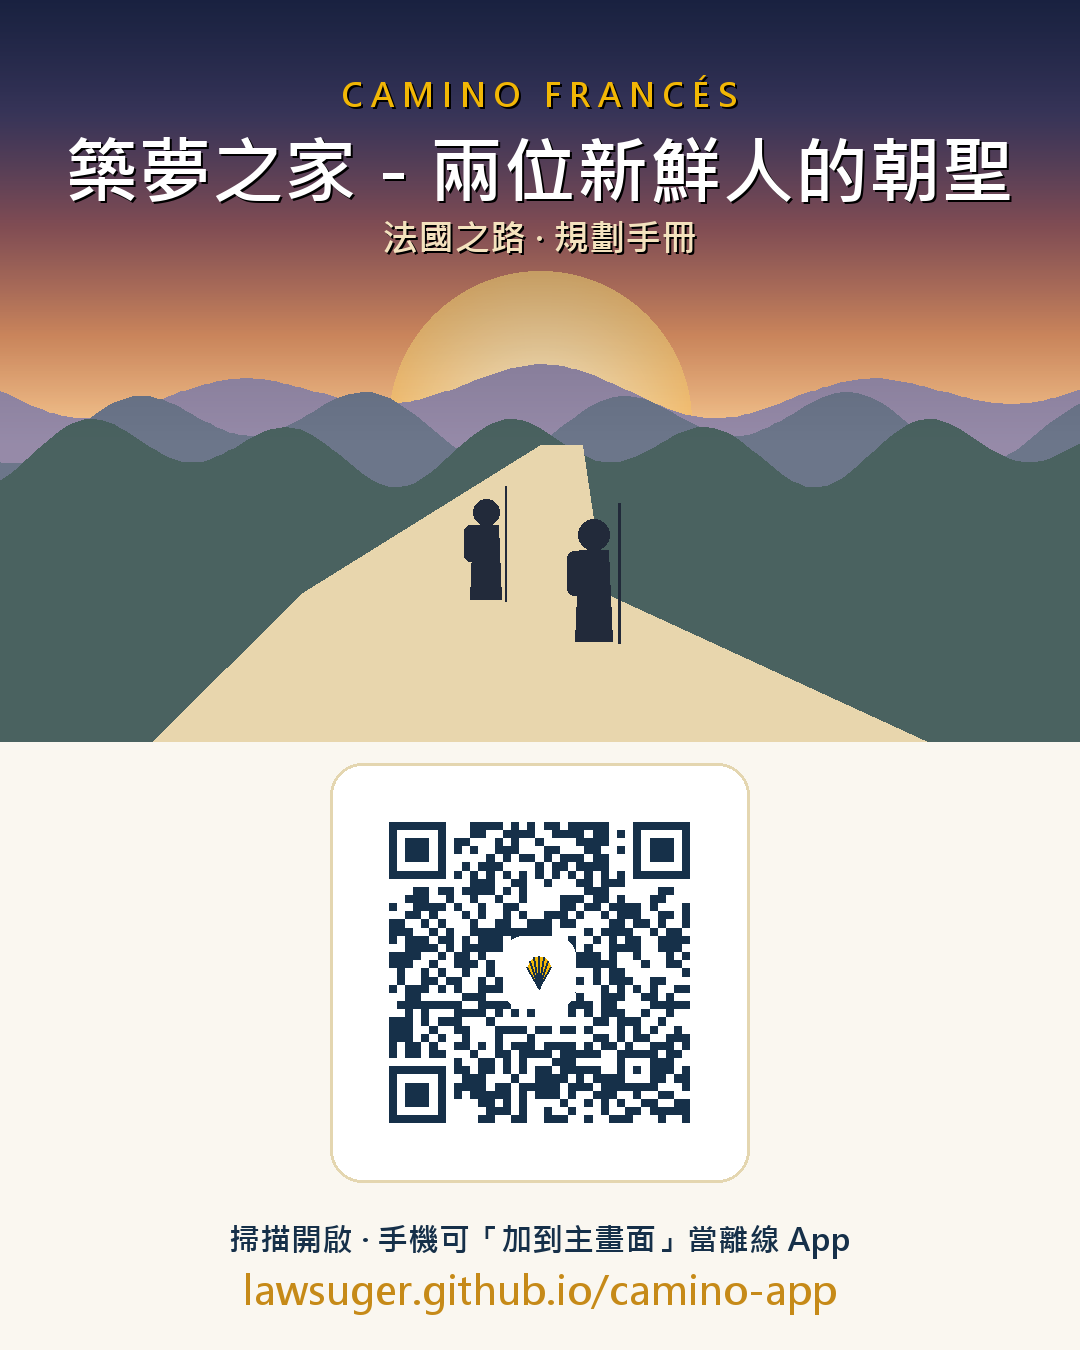
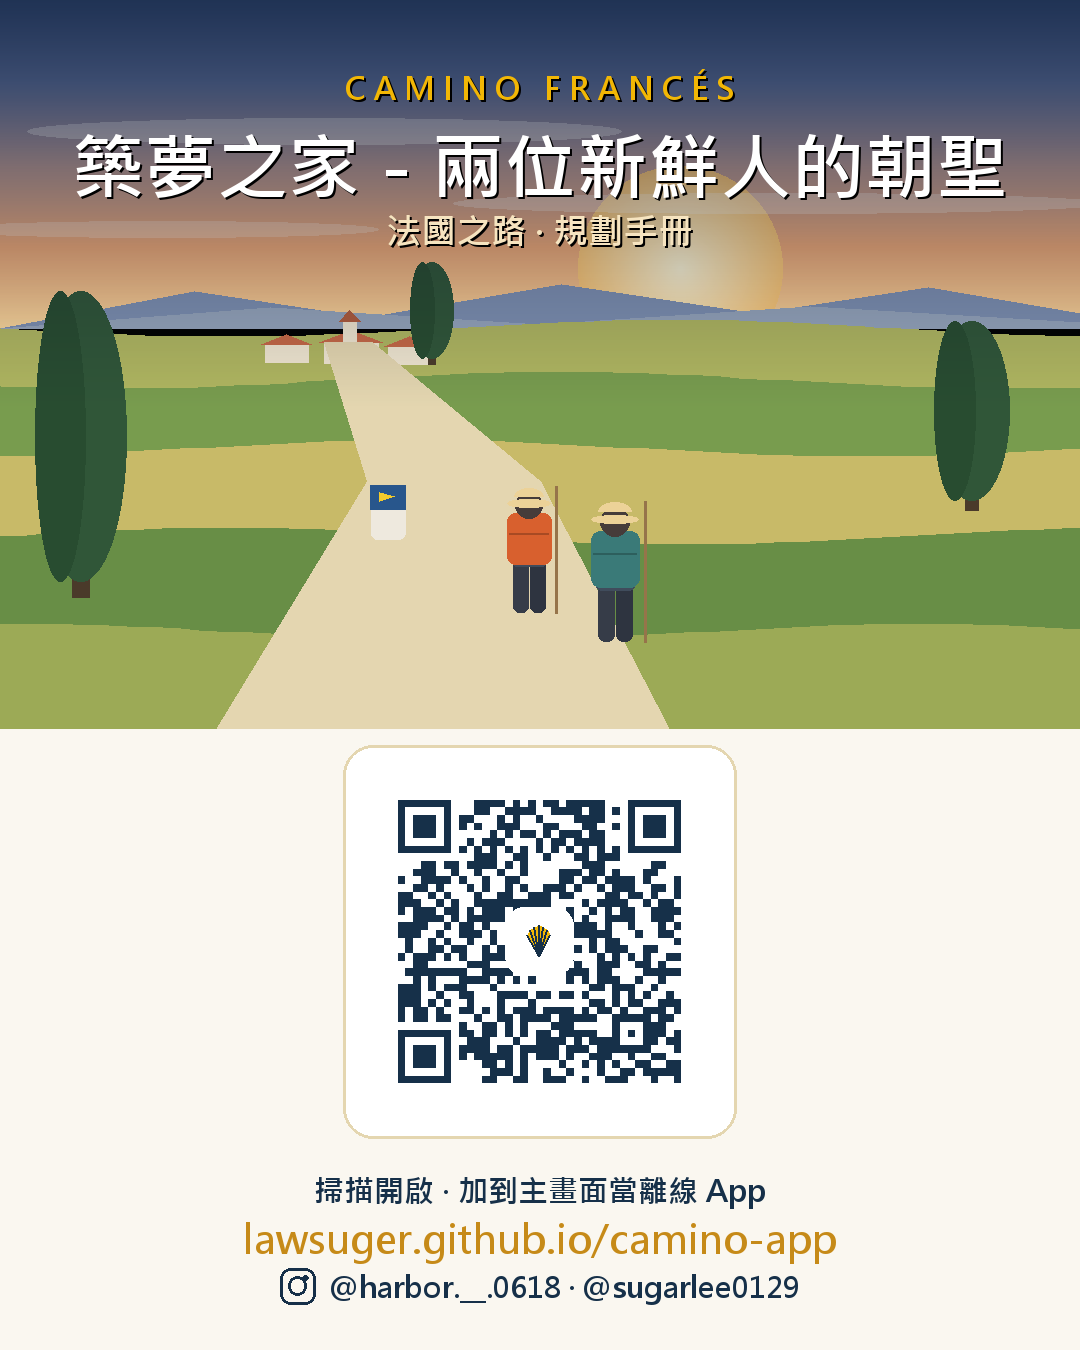
分享卡升級為旅行海報插畫風＋加上 IG 帳號＋方形版
- 日出/梯田/絲柏/小村教堂/黃箭頭路標/兩位背包朝聖者
- 直式與方形各一（qr-card-photo / qr-card-photo-square）
- 卡片底部加 IG：@harbor.__.0618 · @sugarlee0129
- 四款卡皆 ECC-H、zxing 解碼驗證可掃

diff --git a/make-qr.py b/make-qr.py
@@ -3,9 +3,9 @@
 # dependencies = ["qrcode[pil]>=7.4", "pillow>=10"]
 # ///
 """產生朝聖之路 App 的 QR Code 與分享卡。
-輸出：qr-plain.png / qr-logo.png / qr.svg
-      qr-card.png（直式 1080x1350）/ qr-card-square.png（方形 1080x1080）
-      qr-card-photo.png（風景封面 1080x1350，程式繪製日出朝聖景）
+輸出：qr-plain / qr-logo / qr.svg
+      qr-card（直式）/ qr-card-square（方形）          ← 乾淨版
+      qr-card-photo（直式）/ qr-card-photo-square（方形）← 旅行海報插畫版
 用法：uv run make-qr.py"""
 import os
 import math
@@ -20,8 +20,8 @@ KICKER = "C A M I N O   F R A N C É S"
 SUBTITLE = "法國之路 · 規劃手冊"
 FEATURES = "裝備 · 路線 · 庇護所 · 打卡座標 · 儀式 · 美食"
 URL_TEXT = "lawsuger.github.io/camino-app"
-CAP = "掃描開啟 · 手機可「加到主畫面」當離線 App"
-BLESS = "Buen Camino！一路平安"
+CAP = "掃描開啟 · 加到主畫面當離線 App"
+IG_TEXT = "@harbor.__.0618 · @sugarlee0129"
 
 OUT = os.path.join(os.path.dirname(os.path.abspath(__file__)), "qr")
 os.makedirs(OUT, exist_ok=True)
@@ -36,17 +36,17 @@ FR = r"C:\Windows\Fonts\msjh.ttc"
 _M = ImageDraw.Draw(Image.new("RGB", (4, 4)))
 
 
-def f(path, size):
-    return ImageFont.truetype(path, size)
+def f(p, s):
+    return ImageFont.truetype(p, s)
 
 
-def fit(text, path, maxw, start, mn=34):
+def fit(text, p, maxw, start, mn=34):
     s = start
     while s > mn:
-        if _M.textlength(text, font=f(path, s)) <= maxw:
-            return f(path, s)
+        if _M.textlength(text, font=f(p, s)) <= maxw:
+            return f(p, s)
         s -= 2
-    return f(path, mn)
+    return f(p, mn)
 
 
 def lerp(a, b, t):
@@ -69,12 +69,23 @@ def scallop(size):
     return im
 
 
+def ig_glyph(d, cx, cy, s, color):
+    r = s / 2
+    w = max(2, int(s * 0.1))
+    d.rounded_rectangle([cx - r, cy - r, cx + r, cy + r], radius=s * 0.30,
+                        outline=color, width=w)
+    cr = s * 0.27
+    d.ellipse([cx - cr, cy - cr, cx + cr, cy + cr], outline=color, width=w)
+    dr = s * 0.075
+    dx, dy = cx + r * 0.46, cy - r * 0.46
+    d.ellipse([dx - dr, dy - dr, dx + dr, dy + dr], fill=color)
+
+
 # ---------- 基礎 QR ----------
 qr = qrcode.QRCode(error_correction=ERROR_CORRECT_H, box_size=20, border=4)
 qr.add_data(URL); qr.make(fit=True)
 plain = qr.make_image(fill_color=NAVY, back_color="white").convert("RGB")
 plain.save(os.path.join(OUT, "qr-plain.png"))
-
 qs2 = qrcode.QRCode(error_correction=ERROR_CORRECT_H, box_size=20, border=4)
 qs2.add_data(URL); qs2.make(fit=True)
 qs2.make_image(image_factory=SvgPathImage).save(os.path.join(OUT, "qr.svg"))
@@ -98,44 +109,48 @@ qr_logo(1000).save(os.path.join(OUT, "qr-logo.png"))
 def framed_qr(card, size, cx, top):
     fx = int(cx - size / 2)
     d = ImageDraw.Draw(card)
-    d.rounded_rectangle([fx - 26, top - 26, fx + size + 26, top + size + 26],
-                        radius=32, fill=WHITE, outline=FRAME, width=3)
+    d.rounded_rectangle([fx - 24, top - 24, fx + size + 24, top + size + 24],
+                        radius=30, fill=WHITE, outline=FRAME, width=3)
     card.paste(qr_logo(size), (fx, top))
-    return top + size + 26
+    return top + size + 24
 
 
-# ---------- 乾淨版分享卡（直式 / 方形共用）----------
+def footer(card, W, H, y):
+    d = ImageDraw.Draw(card)
+    d.text((W / 2, y), CAP, font=f(FB, int(H * 0.0225)), fill=NAVY, anchor="mm")
+    y += int(H * 0.037)
+    d.text((W / 2, y), URL_TEXT, font=f(FB, int(H * 0.029)), fill=GOLDD, anchor="mm")
+    y += int(H * 0.036)
+    gs = int(H * 0.026)
+    igf = f(FB, int(H * 0.0215))
+    tw = _M.textlength(IG_TEXT, font=igf)
+    gap = int(H * 0.011)
+    sx = W / 2 - (gs + gap + tw) / 2
+    ig_glyph(d, sx + gs / 2, y, gs, NAVY)
+    d.text((sx + gs + gap, y), IG_TEXT, font=igf, fill=NAVY, anchor="lm")
+
+
+# ---------- 乾淨版分享卡 ----------
 def clean_card(W, H):
     card = Image.new("RGB", (W, H), CREAM)
     d = ImageDraw.Draw(card)
-    band = int(H * 0.165)
+    band = int(H * 0.155)
     d.rectangle([0, 0, W, band], fill=NAVY2)
     ss = int(band * 0.46)
     sh = scallop(ss)
-    card.paste(sh, (int(W / 2 - ss / 2), int(band * 0.14)), sh)
-    d.text((W / 2, band * 0.83), KICKER, font=f(FB, int(band * 0.135)),
-           fill=GOLD, anchor="mm")
-
-    y = band + int(H * 0.058)
-    tf = fit(TITLE, FB, W - 150, int(H * 0.060), 40)
-    d.text((W / 2, y), TITLE, font=tf, fill=NAVY, anchor="mm")
+    card.paste(sh, (int(W / 2 - ss / 2), int(band * 0.13)), sh)
+    d.text((W / 2, band * 0.83), KICKER, font=f(FB, int(band * 0.135)), fill=GOLD, anchor="mm")
+    y = band + int(H * 0.055)
+    d.text((W / 2, y), TITLE, font=fit(TITLE, FB, W - 150, int(H * 0.060), 40), fill=NAVY, anchor="mm")
     y += int(H * 0.040)
     d.rounded_rectangle([W / 2 - 66, y - 3, W / 2 + 66, y + 3], radius=3, fill=GOLD)
-    y += int(H * 0.034)
+    y += int(H * 0.033)
     d.text((W / 2, y), SUBTITLE, font=f(FB, int(H * 0.030)), fill=GOLDD, anchor="mm")
-    y += int(H * 0.034)
+    y += int(H * 0.033)
     d.text((W / 2, y), FEATURES, font=f(FR, int(H * 0.0225)), fill=MUTED, anchor="mm")
-
-    qsz = int(min(W * 0.50, H * 0.40))
-    qtop = y + int(H * 0.040)
-    bottom = framed_qr(card, qsz, W / 2, qtop)
-
-    y = bottom + int(H * 0.045)
-    d.text((W / 2, y), CAP, font=f(FB, int(H * 0.0245)), fill=NAVY, anchor="mm")
-    y += int(H * 0.040)
-    d.text((W / 2, y), URL_TEXT, font=f(FB, int(H * 0.030)), fill=GOLDD, anchor="mm")
-    y += int(H * 0.036)
-    d.text((W / 2, y), BLESS, font=f(FR, int(H * 0.022)), fill=MUTED, anchor="mm")
+    qsz = int(min(W * 0.48, H * 0.38))
+    bottom = framed_qr(card, qsz, W / 2, y + int(H * 0.038))
+    footer(card, W, H, bottom + int(H * 0.040))
     return card
 
 
@@ -143,95 +158,129 @@ clean_card(1080, 1350).save(os.path.join(OUT, "qr-card.png"))
 clean_card(1080, 1080).save(os.path.join(OUT, "qr-card-square.png"))
 
 
-# ---------- 風景封面版 ----------
-def pilgrim(d, cx, feet, h, color=(34, 42, 58)):
-    hr = h * 0.13
+# ---------- 旅行海報插畫場景 ----------
+def cypress(d, x, base, h, w):
+    d.rectangle([x - w * 0.09, base - h * 0.12, x + w * 0.09, base], fill=(74, 58, 42))
+    d.ellipse([x - w / 2, base - h, x + w / 2, base - h * 0.05], fill=(48, 86, 56))
+    d.ellipse([x - w / 2, base - h, x + w * 0.05, base - h * 0.05], fill=(40, 76, 48))
+
+
+def house(d, x, y, w, h, wall=(240, 230, 208), roof=(198, 104, 70)):
+    d.rectangle([x, y, x + w, y + h], fill=wall)
+    d.polygon([(x - w * 0.08, y), (x + w * 1.08, y), (x + w / 2, y - h * 0.55)], fill=roof)
+
+
+def pilgrim_color(d, cx, feet, h, pack):
+    hr = h * 0.11
     top = feet - h
-    bw = h * 0.22
-    d.line([(cx + bw * 0.95, feet + h * 0.02), (cx + bw * 0.95, top - hr)],
-           fill=color, width=max(2, int(h * 0.028)))            # 朝聖杖
-    d.rounded_rectangle([cx - bw * 1.0, top + 2 * hr, cx - bw * 0.15,
-                         top + 2 * hr + h * 0.36], radius=h * 0.06, fill=color)  # 背包
-    d.ellipse([cx - hr, top, cx + hr, top + 2 * hr], fill=color)  # 頭
-    d.polygon([(cx - bw * 0.55, top + 2 * hr), (cx + bw * 0.55, top + 2 * hr),
-               (cx + bw * 0.7, feet), (cx - bw * 0.7, feet)], fill=color)  # 身體
+    lw = h * 0.10
+    d.rounded_rectangle([cx - lw * 1.3, feet - h * 0.44, cx - lw * 0.1, feet], radius=lw * 0.5, fill=(54, 60, 72))
+    d.rounded_rectangle([cx + lw * 0.1, feet - h * 0.44, cx + lw * 1.3, feet], radius=lw * 0.5, fill=(46, 52, 64))
+    d.line([(cx + h * 0.23, feet + h * 0.01), (cx + h * 0.23, top - hr * 0.4)], fill=(150, 116, 74), width=max(2, int(h * 0.028)))
+    d.rounded_rectangle([cx - h * 0.15, top + 1.7 * hr, cx + h * 0.15, feet - h * 0.38], radius=h * 0.05, fill=(64, 76, 92))
+    d.rounded_rectangle([cx - h * 0.18, top + 1.6 * hr, cx + h * 0.18, top + 1.6 * hr + h * 0.42], radius=h * 0.07, fill=pack)
+    d.line([(cx - h * 0.16, top + 1.6 * hr + h * 0.17), (cx + h * 0.16, top + 1.6 * hr + h * 0.17)], fill=lerp(pack, (0, 0, 0), 0.22), width=max(2, int(h * 0.022)))
+    d.ellipse([cx - hr, top, cx + hr, top + 2 * hr], fill=(70, 60, 58))
+    d.chord([cx - hr * 1.1, top - hr * 0.3, cx + hr * 1.1, top + hr * 1.0], 180, 360, fill=(236, 210, 152))
+    d.ellipse([cx - hr * 1.6, top + hr * 0.55, cx + hr * 1.6, top + hr * 1.15], fill=(236, 210, 152))
 
 
-def landscape(W, H):
+def poster_scene(W, H):
     img = Image.new("RGB", (W, H))
     d = ImageDraw.Draw(img)
-    hz = int(H * 0.60)
-    sky = [(38, 44, 92), (84, 72, 122), (172, 96, 100), (232, 150, 99), (250, 207, 150)]
+    hz = int(H * 0.45)
+    sky = [(60, 92, 150), (104, 126, 178), (188, 156, 152), (240, 170, 120), (252, 216, 156)]
     for y in range(hz):
         seg = (y / hz) * (len(sky) - 1)
         i = min(int(seg), len(sky) - 2)
         d.line([(0, y), (W, y)], fill=lerp(sky[i], sky[i + 1], seg - i))
-    sx, sy, R = int(W * 0.5), int(hz * 0.95), int(W * 0.14)
+    sx, sy, R = int(W * 0.63), int(hz * 0.82), int(W * 0.095)
     for r in range(R, 0, -1):
-        d.ellipse([sx - r, sy - r, sx + r, sy + r],
-                  fill=lerp((255, 240, 205), (251, 196, 116), r / R))
-    for y in range(hz, H):
-        d.line([(0, y), (W, y)], fill=lerp((226, 206, 166), (188, 172, 144), (y - hz) / (H - hz)))
-    layers = [(int(hz * 0.88), (150, 138, 168), 0.020, 20, 0.0),
-              (int(hz * 0.95), (108, 118, 138), 0.026, 28, 1.3),
-              (int(hz * 1.01), (74, 98, 96), 0.030, 26, 2.2)]
-    for base, col, freq, amp, ph in layers:
+        d.ellipse([sx - r, sy - r, sx + r, sy + r], fill=lerp((255, 246, 214), (252, 200, 120), r / R))
+    ov = Image.new("RGBA", (W, H), (0, 0, 0, 0))
+    od = ImageDraw.Draw(ov)
+    for cx, cy, cw, ch, al in [(W * 0.30, hz * 0.40, W * 0.55, 26, 95),
+                               (W * 0.72, hz * 0.62, W * 0.6, 20, 70),
+                               (W * 0.15, hz * 0.7, W * 0.4, 16, 60)]:
+        od.ellipse([cx - cw / 2, cy - ch / 2, cx + cw / 2, cy + ch / 2], fill=(255, 255, 255, al))
+    img = Image.alpha_composite(img.convert("RGBA"), ov).convert("RGB")
+    d = ImageDraw.Draw(img)
+    # 遠山
+    d.polygon([(0, hz), (W * 0.18, hz - H * 0.05), (W * 0.34, hz - H * 0.015),
+               (W * 0.52, hz - H * 0.06), (W * 0.7, hz - H * 0.02),
+               (W * 0.86, hz - H * 0.055), (W, hz - H * 0.02), (W, hz)], fill=(126, 144, 178))
+    d.polygon([(0, hz), (W * 0.25, hz - H * 0.028), (W * 0.5, hz - H * 0.005),
+               (W * 0.75, hz - H * 0.03), (W, hz - H * 0.008), (W, hz)], fill=(150, 165, 188))
+    # 梯田
+    for frac, col in [(0.0, (176, 182, 96)), (0.13, (120, 156, 78)), (0.30, (200, 186, 104)),
+                      (0.52, (104, 142, 70)), (0.76, (156, 170, 86))]:
+        ytop = hz + int((H - hz) * frac)
         pts = [(0, H)]
-        for x in range(0, W + 1, 6):
-            yy = base + int(math.sin(x * freq + ph) * amp + math.sin(x * freq * 0.5 + ph) * amp * 0.5)
-            pts.append((x, yy))
+        for x in range(0, W + 1, 18):
+            pts.append((x, ytop + int(math.sin(x * 0.007 + frac * 6) * 9)))
         pts += [(W, H)]
         d.polygon(pts, fill=col)
-    # 朝聖小徑
-    tx, tw = int(W * 0.52), int(W * 0.02)
-    mx, my, mw = int(W * 0.42), int((hz + H) / 2), int(W * 0.14)
-    bx, bw = int(W * 0.50), int(W * 0.36)
-    d.polygon([(tx - tw, hz), (mx - mw, my), (bx - bw, H),
-               (bx + bw, H), (mx + mw, my), (tx + tw, hz)], fill=(232, 214, 173))
+    # 小村（路的盡頭、地平線附近）
+    vx, vy = int(W * 0.30), hz + int(H * 0.02)
+    house(d, vx, vy, int(W * 0.05), int(H * 0.03))
+    house(d, vx + int(W * 0.06), vy + int(H * 0.006), int(W * 0.04), int(H * 0.025))
+    house(d, vx - int(W * 0.055), vy + int(H * 0.004), int(W * 0.04), int(H * 0.026))
+    d.rectangle([vx + int(W * 0.018), vy - int(H * 0.03), vx + int(W * 0.03), vy], fill=(240, 230, 208))
+    d.polygon([(vx + int(W * 0.014), vy - int(H * 0.03)), (vx + int(W * 0.034), vy - int(H * 0.03)),
+               (vx + int(W * 0.024), vy - int(H * 0.045))], fill=(176, 92, 62))
+    # 朝聖小徑（從前景蜿蜒到村莊）
+    d.polygon([(int(W * 0.32), hz + int(H * 0.02)), (int(W * 0.30), hz + int(H * 0.02)),
+               (int(W * 0.34), int(H * 0.66)), (int(W * 0.20), H), (int(W * 0.62), H),
+               (int(W * 0.50), int(H * 0.66)), (int(W * 0.345), hz + int(H * 0.02))],
+              fill=(228, 214, 176))
+    # 絲柏
+    cypress(d, int(W * 0.075), int(H * 0.82), int(H * 0.42), int(W * 0.085))
+    cypress(d, int(W * 0.40), hz + int(H * 0.05), int(H * 0.14), int(W * 0.04))
+    cypress(d, int(W * 0.90), int(H * 0.70), int(H * 0.26), int(W * 0.07))
+    # 黃箭頭路標石
+    wx, wb, ws = int(W * 0.36), int(H * 0.74), int(H * 0.075)
+    d.rounded_rectangle([wx - ws * 0.32, wb - ws, wx + ws * 0.32, wb], radius=ws * 0.12, fill=(238, 233, 222))
+    d.rectangle([wx - ws * 0.32, wb - ws, wx + ws * 0.32, wb - ws * 0.55], fill=(40, 86, 140))
+    d.polygon([(wx - ws * 0.16, wb - ws * 0.86), (wx + ws * 0.12, wb - ws * 0.78),
+               (wx - ws * 0.16, wb - ws * 0.70)], fill=(244, 202, 44))
     # 兩位朝聖者（兩位新鮮人）
-    pilgrim(d, int(W * 0.45), int(hz + (H - hz) * 0.52), int(H * 0.135))
-    pilgrim(d, int(W * 0.55), int(hz + (H - hz) * 0.66), int(H * 0.165))
-    return img, hz
+    pilgrim_color(d, int(W * 0.49), int(H * 0.84), int(H * 0.165), (216, 96, 46))
+    pilgrim_color(d, int(W * 0.57), int(H * 0.88), int(H * 0.185), (58, 122, 120))
+    return img
 
 
-def photo_card(W, H):
+# ---------- 海報版分享卡 ----------
+def poster_card(W, H, sq=False):
     card = Image.new("RGB", (W, H), CREAM)
-    sceneH = int(H * 0.55)
-    scene, hz = landscape(W, sceneH)
-    card.paste(scene, (0, 0))
-    # 頂部暗罩（讓白字清楚）
-    sh = int(sceneH * 0.60)
+    sceneH = int(H * (0.50 if sq else 0.54))
+    card.paste(poster_scene(W, sceneH), (0, 0))
+    sh = int(sceneH * 0.56)
     scrim = Image.new("L", (W, sh), 0)
     sd = ImageDraw.Draw(scrim)
     for y in range(sh):
-        sd.line([(0, y), (W, y)], fill=int(150 * (1 - y / sh)))
-    card.paste((16, 26, 44), (0, 0, W, sh), scrim)
+        sd.line([(0, y), (W, y)], fill=int(155 * (1 - y / sh)))
+    card.paste((14, 24, 42), (0, 0, W, sh), scrim)
     d = ImageDraw.Draw(card)
 
     def st(xy, text, font, fill):
         d.text((xy[0] + 2, xy[1] + 2), text, font=font, fill=(0, 0, 0), anchor="mm")
         d.text(xy, text, font=font, fill=fill, anchor="mm")
 
-    st((W / 2, int(H * 0.070)), KICKER, f(FB, int(H * 0.024)), GOLD)
-    tf = fit(TITLE, FB, W - 130, int(H * 0.060), 40)
-    st((W / 2, int(H * 0.125)), TITLE, tf, WHITE)
-    st((W / 2, int(H * 0.175)), SUBTITLE, f(FB, int(H * 0.027)), (244, 226, 190))
+    st((W / 2, int(H * (0.058 if sq else 0.065))), KICKER, f(FB, int(H * 0.023)), GOLD)
+    st((W / 2, int(H * (0.108 if sq else 0.122))), TITLE, fit(TITLE, FB, W - 120, int(H * 0.058), 40), WHITE)
+    st((W / 2, int(H * (0.152 if sq else 0.170))), SUBTITLE, f(FB, int(H * 0.026)), (246, 228, 192))
 
-    # 底部米白區的 QR
-    qsz = int(W * 0.34)
-    qtop = sceneH + int(H * 0.035)
-    bottom = framed_qr(card, qsz, W / 2, qtop)
-    y = bottom + int(H * 0.042)
-    d.text((W / 2, y), CAP, font=f(FB, int(H * 0.0235)), fill=NAVY, anchor="mm")
-    y += int(H * 0.038)
-    d.text((W / 2, y), URL_TEXT, font=f(FB, int(H * 0.029)), fill=GOLDD, anchor="mm")
+    qsz = int(W * (0.28 if sq else 0.32))
+    bottom = framed_qr(card, qsz, W / 2, sceneH + int(H * 0.030))
+    footer(card, W, H, bottom + int(H * 0.038))
     return card
 
 
-photo_card(1080, 1350).save(os.path.join(OUT, "qr-card-photo.png"))
+poster_card(1080, 1350, sq=False).save(os.path.join(OUT, "qr-card-photo.png"))
+poster_card(1080, 1080, sq=True).save(os.path.join(OUT, "qr-card-photo-square.png"))
 
 for fn in ("qr-plain.png", "qr-logo.png", "qr.svg", "qr-card.png",
-           "qr-card-square.png", "qr-card-photo.png"):
+           "qr-card-square.png", "qr-card-photo.png", "qr-card-photo-square.png"):
     p = os.path.join(OUT, fn)
-    print(f"{fn:20} {os.path.getsize(p):>8,} bytes")
+    print(f"{fn:24} {os.path.getsize(p):>8,} bytes")
 print("OK ->", OUT)
